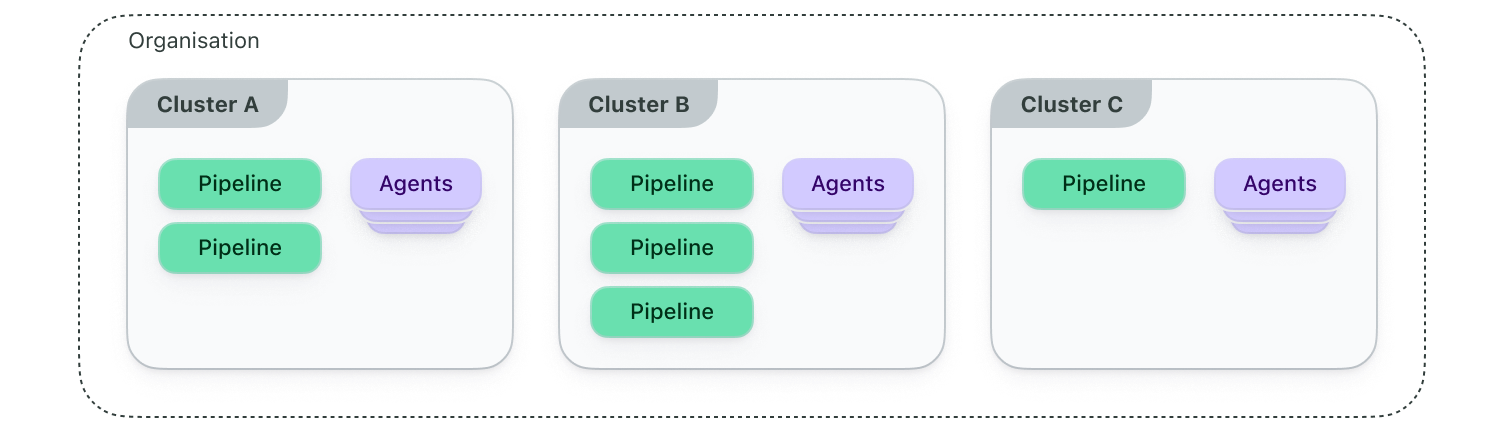
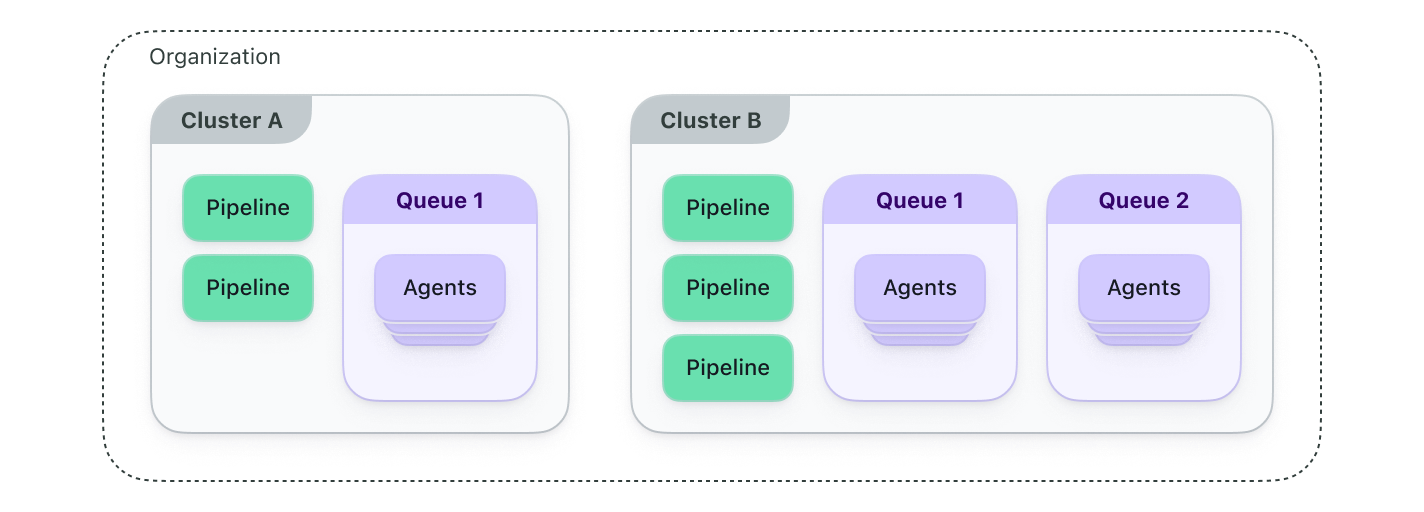
Change 'agent clusters' to 'clusters', refactor and update clusters overview page a bit, and add more to creating a queue.

diff --git a/pages/clusters/manage_clusters.md b/pages/clusters/manage_clusters.md
@@ -24,16 +24,16 @@ Once your clusters are set up, you can set up one or more additional [queues](/d
 
 ## Create a new cluster
 
-New clusters can be created using the [_Agent Clusters_ page](#create-a-new-cluster-using-the-buildkite-interface), or the [REST API's create a cluster](#create-a-new-cluster-using-the-rest-api) feature.
+New clusters can be created using the [_Clusters_ page](#create-a-new-cluster-using-the-buildkite-interface), or the [REST API's create a cluster](#create-a-new-cluster-using-the-rest-api) feature.
 
 ### Using the Buildkite interface
 
 To create a new cluster using the Buildkite interface:
 
-1. Select _Agents_ in the global navigation to access the _Agent Clusters_ page.
+1. Select _Agents_ in the global navigation to access the _Clusters_ page.
 1. Select _Create a Cluster_.
 1. On the _New Cluster_ page, enter the mandatory _Name_ for the new cluster.
-1. Enter an optional _Description_ for the cluster. This description appears under the name of cluster's tile on the _Agent Clusters_ page.
+1. Enter an optional _Description_ for the cluster. This description appears under the name of cluster's tile on the _Clusters_ page.
 1. Enter an optional _Emoji_ and _Color_ using the recommended syntax. This emoji appears next to the cluster's name and the color (in hex code syntax, for example, `#FFE0F1`) provides the background color for this emoji.
 1. Select _Create Cluster_.
 
@@ -69,13 +69,16 @@ where:
         curl -H "Authorization: Bearer $TOKEN" "https://api.buildkite.com/v2/organizations"
         ```
 
-- `name` (mandatory) is the name for the new cluster.
+- `name` (required) is the name for the new cluster.
 
-- `description` (optional) is the description that appears under the name of cluster's tile on the _Agent Clusters_ page.
+- `description` (optional) is the description that appears under the name of cluster's tile on the _Clusters_ page.
 
 - `emoji` (optional) is the emoji that appears next to the cluster's name in the Buildkite interface and uses the example syntax above.
 
 - `color` (optional) provides the background color for this emoji and uses hex code syntax (for example, `#FFE0F1`).
+
+> 📘 A default queue is not automatically created.
+> Unlike creating a new cluster through the [Buildkite interface](#create-a-new-cluster-using-the-buildkite-interface), a default queue is not automatically created using this API call. To create a new/default queue for this new cluster, you will need to manually [create a new queue](/docs/clusters/manage-queues#create-a-new-queue) for it.
 
 ## Connect agents to a cluster
 
@@ -87,7 +90,7 @@ You can also create, edit, and revoke other agent tokens from the cluster’s _A
 
 ## Move unclustered agents to a cluster
 
-Unclustered agents are agents associated with the _Unclustered_ area of the _Agent Clusters_ page in a Buildkite organization. Learn more about unclustered agents in [Unclustered agent tokens](/docs/agent/v3/unclustered-tokens).
+Unclustered agents are agents associated with the _Unclustered_ area of the _Clusters_ page in a Buildkite organization. Learn more about unclustered agents in [Unclustered agent tokens](/docs/agent/v3/unclustered-tokens).
 
 > 📘 Organizations created after February 26, 2024.
 > Organizations created after this date will not have an _Unclustered_ area. Therefore, this process is not required.
@@ -96,7 +99,7 @@ To move an unclustered agent across to using a cluster:
 
 1. Stop the unclustered agent (from running). To do this, either terminate the agent's running process (for example, via Ctrl-C on the keyboard) or use the Buildkite interface:
 
-    1. Select _Agents_ in the global navigation to access the _Agent Clusters_ page.
+    1. Select _Agents_ in the global navigation to access the _Clusters_ page.
     1. Select _Unclustered_.
     1. From the _Unclustered Agents_ page, select the agent to stop and on its page, select _Stop Agent_.
 
@@ -127,8 +130,8 @@ Be aware that an agent token's _Allowed IP Addresses_ setting also has the follo
 
 To restrict an existing agent token's access by IP address (via the token's _Allowed IP Addresses_ setting) using the Buildkite interface:
 
-1. Select _Agents_ in the global navigation to access the _Agent Clusters_ page.
-1. Select the cluster that will be associated with this agent token.
+1. Select _Agents_ in the global navigation to access the _Clusters_ page.
+1. Select the cluster associated with the agent token.
 1. Select _Agent Tokens_ and expand the agent token whose _Allowed IP Addresses_ setting is to be added or modified.
 1. Select _Edit_.
 1. Update the _Allowed IP Addresses_ setting, using space-separated [CIDR notation](https://en.wikipedia.org/wiki/Classless_Inter-Domain_Routing) to the IP addresses which agents must be accessible through.
@@ -197,7 +200,7 @@ As one of these types of users, you can add and manage other users or teams in y
 
 To add a maintainer to a cluster:
 
-1. Select _Agents_ in the global navigation to access the _Agent Clusters_ page.
+1. Select _Agents_ in the global navigation to access the _Clusters_ page.
 1. Select the cluster to add a user or team to be a maintainer of the cluster.
 1. Select _Maintainers_ > _Add Maintainer_.
 1. Select if the maintainer will either be a specific _User_ or _Team_ of users.

diff --git a/pages/clusters/manage_queues.md b/pages/clusters/manage_queues.md
@@ -6,26 +6,38 @@ This page provides details on how to manage queues within a [cluster](/docs/clus
 
 When a new Buildkite organization is created, along with the automatically created [default cluster](/docs/clusters/manage-clusters#setting-up-clusters) (named _Default cluster_), a default queue (named _default-queue_) within this cluster is also created.
 
-A cluster can be configured with multiple queues, each of which represents a specific combination of your build infrastructure.
+A cluster can be configured with multiple queues, each of which can be used to represent a specific combination of your build infrastructure, based on:
 
-- Architecture (x86, arm64 etc)
+- Architecture (x86-64, arm64, Apple silicon, etc.)
 - Size of agents (small, medium, large)
-- Type of machine (Mac, GPU, Linux, Windows)
+- Type of machine (Mac, Linux, Windows, etc.)
 
-So an example queue would be `small_mac_silicon`.
+Therefore, some example queues might be `mac_medium_x86`, `mac_large_silicon`, etc.
 
-Having individual queues according to these breakdowns allows you to scale your agents that all look the same and Buildkite will report on these
+Having individual queues according to these breakdowns allows you to scale your agents that all look the same and Buildkite will report on these.
 
-## Create a queue
+## Create a new queue
 
-When you create your first cluster, it will have an initial _default_ queue.
+New queues can be created using the [_Queues_ page of a cluster](#create-a-new-queue-using-the-buildkite-interface), or the [REST API's create a queue](#create-a-new-queue-using-the-rest-api) feature.
 
-To create additional queues:
+When you [create a new cluster](/docs/clusters/manage-clusters#create-a-new-cluster) through the [Buildkite interface](/docs/clusters/manage-clusters#create-a-new-cluster-using-the-buildkite-interface), this cluster automatically has an initial _default_ queue.
 
-1. Navigate to the cluster’s _Queues_.
-1. Select _Create a Queue_.
-1. Enter a key and description.
+### Using the Buildkite interface
+
+To create a new queue using the Buildkite interface:
+
+1. Select _Agents_ in the global navigation to access the _Clusters_ page.
+1. Select the cluster in which to create the new queue.
+1. On the _Queues_ page, select _New Queue_.
+1. Enter a _key_ for the queue, which can only contain letters, numbers, hyphens, and underscores, as valid characters.
+1. Select the _Add description_ checkbox to enter an optional description for the queue. This description appears under the queue's key, which is listed on the _Queues_ page, as well as when viewing the queue's details.
 1. Select _Create Queue_.
+
+    The new queue's details are displayed, indicating the queue's key and its description (if configured).
+
+### Using the REST API
+
+
 
 ## Pause a queue
 

diff --git a/pages/clusters/overview.md b/pages/clusters/overview.md
@@ -27,26 +27,26 @@ Clusters encapsulate groups of agents and pipelines, enabling the following:
 
 ### How should I structure my clusters
 
-The most common patterns we see for clusters are per stage, type of work or product.
+The most common patterns seen for cluster configurations are based on stage setup, type of work, type of platform/build, or product:
 
-- Stage setup: DEV, TEST, PROD clusters
-- Type of work: Open source vs everything else
-- Type of build: Docker, Android, Mac, ML etc
-- Per product line: For companies with multiple products we see them have a cluster per each individual product.
+- Stage setup: development, test, and production clusters
+- Type of work: open source vs everything else
+- Type of platform/build: Linux, Android, macOS, Windows, Docker, ML, etc
+- Product lines: companies with multiple products often have a cluster configured for each individual product.
 
 You can create as many clusters as your require for your setup.
 
 ### How should I structure my queues
 
-Queues should mimic your infrastructure. The most common queue attributes we see customers use are:
+The most common queue attributes are based on infrastructure set-ups, such as:
 
-- Architecture (x86, arm64 etc)
+- Architecture (x86, arm64, Apple silicon, etc.)
 - Size of agents (small, medium, large)
-- Type of machine (Mac, GPU, Linux, Windows)
+- Type of machine (macOS, Linux, Windows, GPU, etc.)
 
-So an example queue would be `small_mac_silicon`.
+Therefore, an example queue would be `small_mac_silicon`.
 
-Having individual queues according to these breakdowns allows you to scale your agents that all look the same and Buildkite will report on these
+Having individual queues according to these breakdowns allows you to scale your agents that all look the same and Buildkite will report on these.
 
 ## Queue metrics
 
@@ -58,7 +58,7 @@ The release of clusters changes how your agents are accessed through the Buildki
 
 If you only have one Cluster with one Queue selecting _Agents_ in the global navigation will take you to your single queue.
 
-If you have multiple clusters, or unclustered pipelines and agents, selecting _Agents_ in the global navigation will take you to the _Agent Clusters_ page. Once on this page, you can navigate to your agents by selecting the cluster the agents are part of, or _Unclustered_ for agents that were not created as part of a cluster.
+If you have multiple clusters, or unclustered pipelines and agents, selecting _Agents_ in the global navigation will take you to the _Clusters_ page. Once on this page, you can navigate to your agents by selecting the cluster the agents are part of, or _Unclustered_ for agents that were not created as part of a cluster.
 
 ## Enabling clusters before the release date
 

diff --git a/pages/agent/v3/tokens.md b/pages/agent/v3/tokens.md
@@ -28,7 +28,7 @@ It is possible to create multiple agent tokens (for your Default cluster or any 
 
 To create an agent token for a cluster using the Buildkite interface:
 
-1. Select _Agents_ in the global navigation to access the _Agent Clusters_ page.
+1. Select _Agents_ in the global navigation to access the _Clusters_ page.
 1. Select the cluster that will be associated with this agent token.
 1. Select _Agent Tokens_ > _New Token_.
 1. In the _Description_ field, enter an appropriate description for the agent token.
@@ -96,7 +96,7 @@ Once a token is revoked, no new agents will be able to start with that token. Re
 
 To revoke a cluster's agent token using the Buildkite interface:
 
-1. Select _Agents_ in the global navigation to access the _Agent Clusters_ page.
+1. Select _Agents_ in the global navigation to access the _Clusters_ page.
 1. Select the cluster containing the agent token to revoke.
 1. Select _Agent Tokens_ and on this page, expand the agent token to revoke.
 1. Select _Revoke_ > _Revoke Token_ in the confirmation message.

diff --git a/pages/apis/rest_api/clusters.md b/pages/apis/rest_api/clusters.md
@@ -248,11 +248,11 @@ Error responses:
 </tbody>
 </table>
 
-## Cluster queues
+## Queues
 
-[Cluster queues](/docs/clusters/manage-queues#create-a-queue) are discrete groups of agents within a cluster. Pipelines in that cluster can target cluster queues to run jobs on agents assigned to those queues.
+[Queues](/docs/clusters/manage-queues#create-a-queue) are discrete groups of agents within a cluster. Pipelines in that cluster can target queues to run jobs on agents assigned to those queues.
 
-### Cluster queue data model
+### Queue data model
 
 <table class="responsive-table">
   <tbody>
